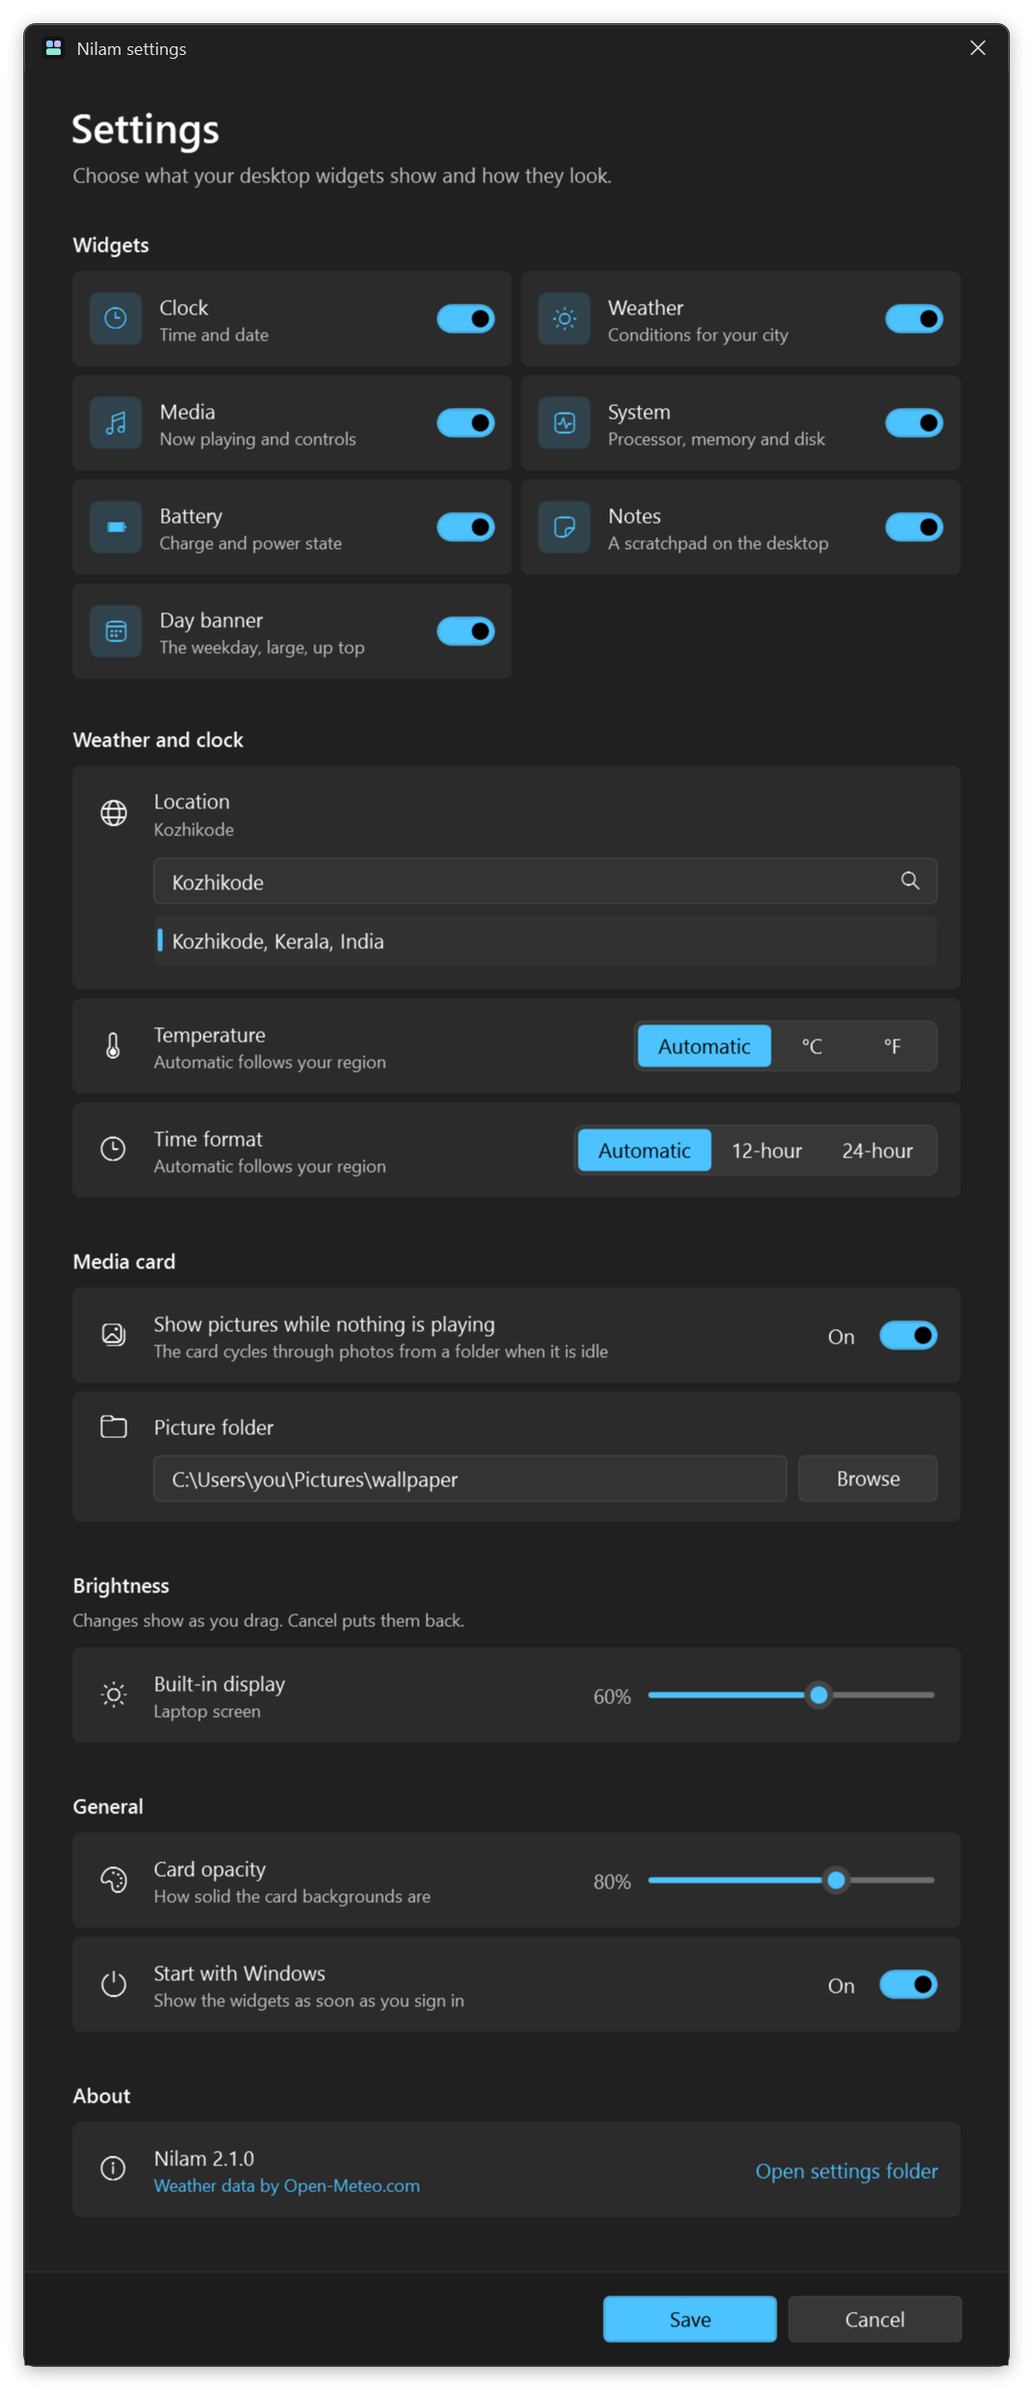
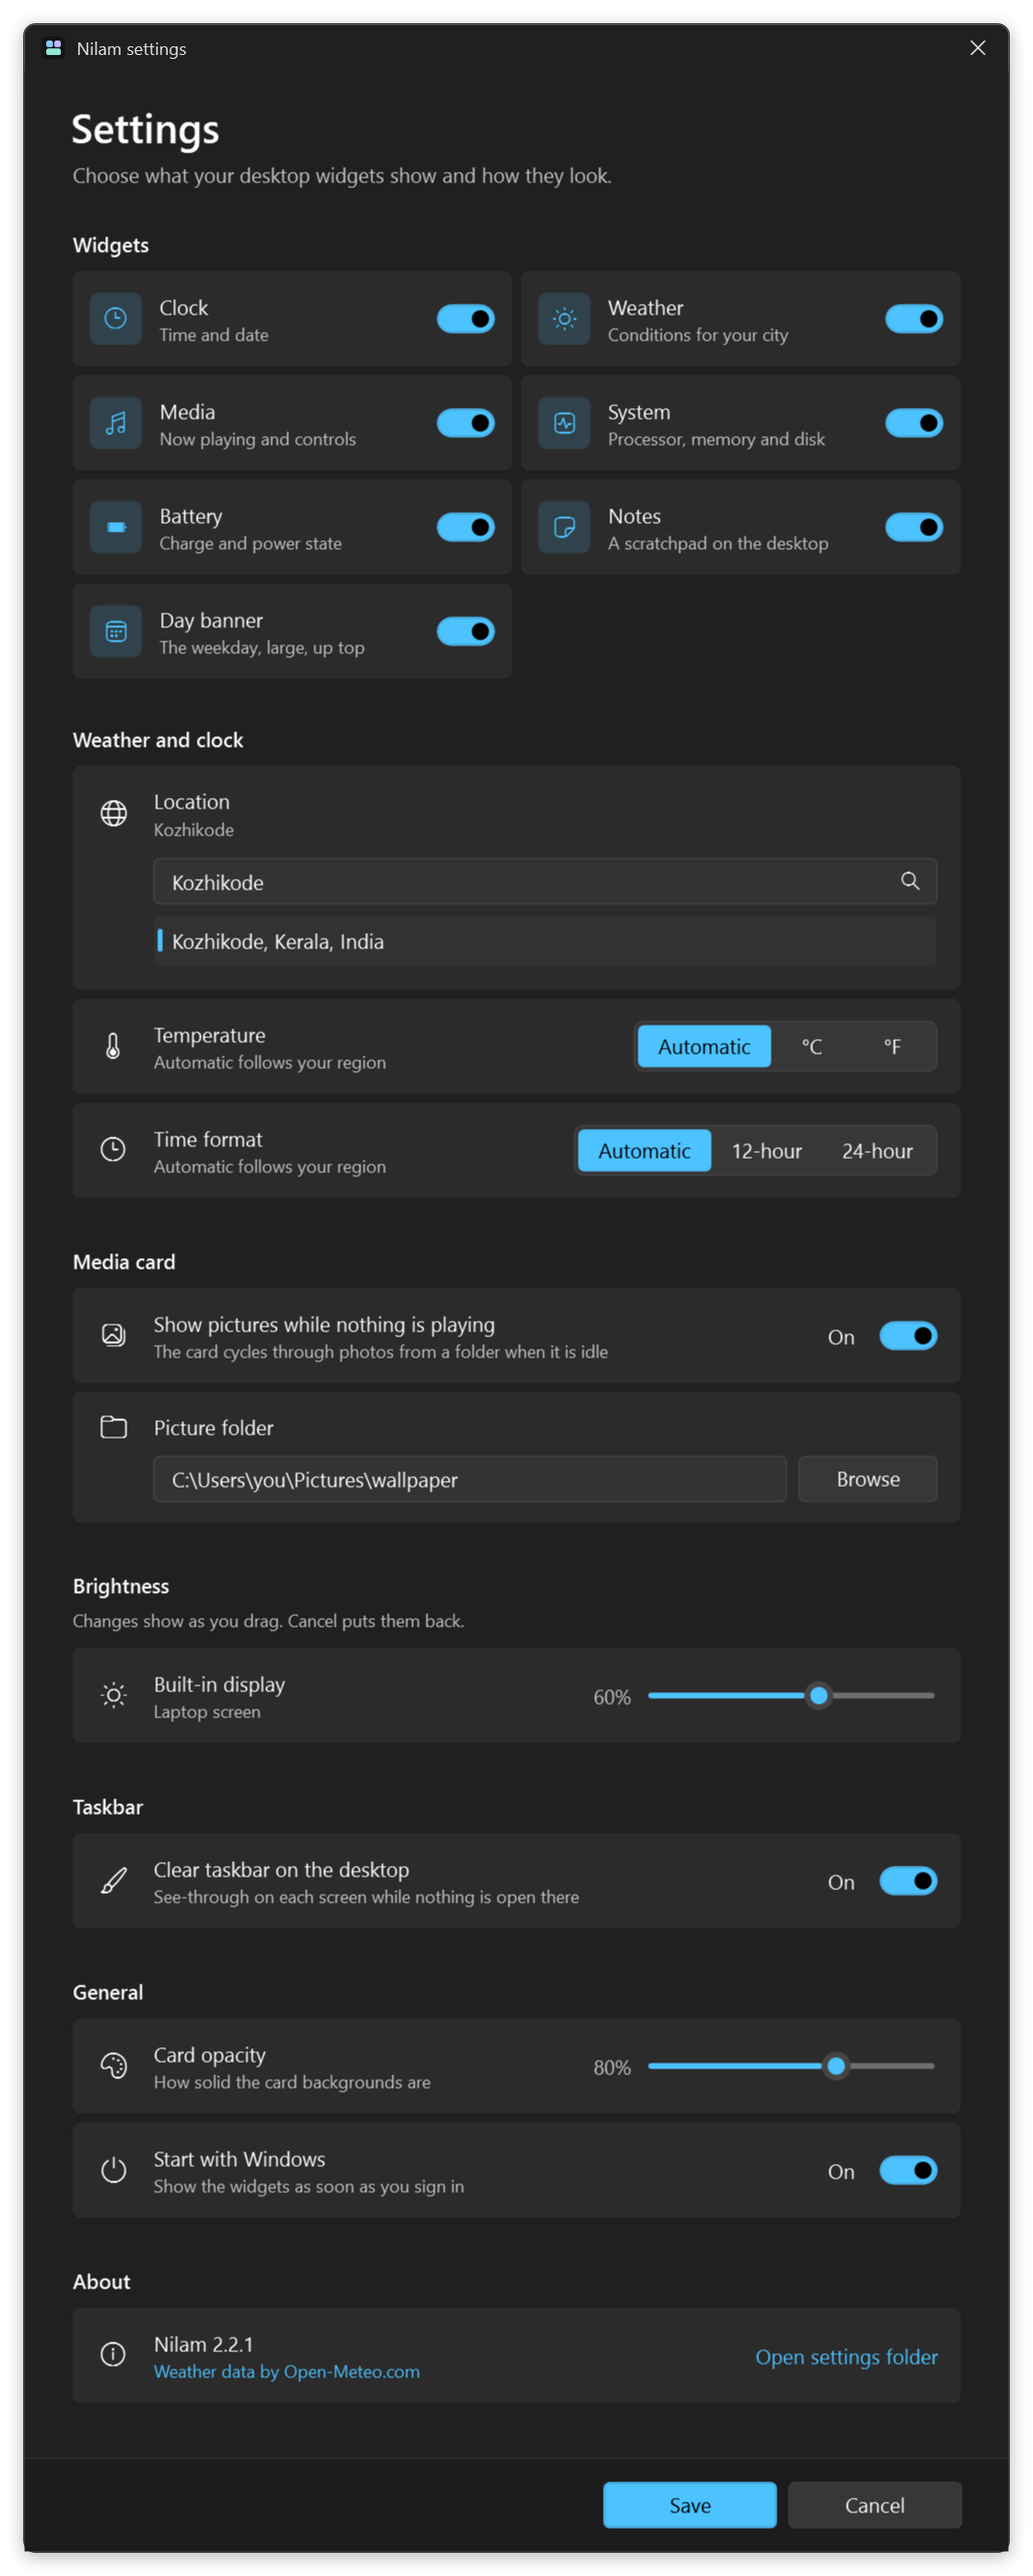
Save only dragged card positions, fix the taskbar settings line, release 2.2.1
Every card's default spot was saved the first time it was shown, so cards
set up on a laptop stayed at the laptop's layout on a bigger monitor - in
the middle of the screen, with the banner off centre. Now only a spot the
user drags a card to is saved (LayoutPlanner.Place, with tests), cards
never moved follow each screen's own default, and Reset positions forgets
saved spots instead of saving the defaults.

From an audit of today's changes:
- The clear taskbar's description in Settings was cut off at the window's
  normal width, and the reason shown when it is unavailable could not
  wrap. The row now wraps, and the text is shorter.
- After a display change the clear taskbar re-sends every taskbar's
  state, so one Windows rebuilt behind the same window does not stay solid.
- The README lost the 2.2.0 guidance to quit other taskbar tools and sign
  out, and where the helper's log is; both are back. The settings picture
  is regenerated (2.2.1, with the Taskbar switch), and PRIVACY.md and the
  installer's summary mention nilam uninstall.

diff --git a/src/WidgetApp.cs b/src/WidgetApp.cs
@@ -298,13 +298,34 @@ namespace Nilam
             }
             Replan();
             List<Rect> areas = WorkAreas();
+            bool changed = false;
             foreach (Card card in cards)
             {
                 Window w = card.Window;
-                Rect now = new Rect(w.Left, w.Top, card.Home.Width, card.Home.Height);
-                Rect fit = LayoutPlanner.Fit(now, card.Home, areas);
-                if (fit.Left != w.Left) w.Left = fit.Left;
-                if (fit.Top != w.Top) w.Top = fit.Top;
+                // A card the user dragged is checked where it is now - Windows
+                // moves windows off a monitor that goes away. One never dragged
+                // moves to the new screen's default; see LayoutPlanner.Place.
+                bool dragged = Store.Layout.ContainsKey(card.Name);
+                Rect fit = LayoutPlanner.Place(dragged ? new Point2(w.Left, w.Top) : (Point2?)null, card.Home, areas);
+                if (fit.Left == w.Left && fit.Top == w.Top) continue;
+                w.Left = fit.Left;
+                w.Top = fit.Top;
+                if (dragged)
+                {
+                    Store.Layout[card.Name] = new Point2(fit.Left, fit.Top);
+                    changed = true;
+                }
+            }
+            if (changed) SaveLayoutSoon();
+
+            // If a display change rebuilds a taskbar's insides while its window
+            // stays the same, the rebuilt one starts out solid - and the clear
+            // taskbar, which only sends what has changed, would not notice.
+            // Sending every state again covers that.
+            if (Taskbar != null)
+            {
+                try { Taskbar.Refresh(); }
+                catch (Exception ex) { Log.Error("taskbar", ex); }
             }
         }
 
@@ -408,8 +429,11 @@ namespace Nilam
             {
                 card.Window.Left = card.Home.Left;
                 card.Window.Top = card.Home.Top;
-                Store.Layout[card.Name] = new Point2(card.Home.Left, card.Home.Top);
             }
+            // Every saved spot is forgotten - hidden cards' too - rather than
+            // the defaults being saved, so the cards go on following each
+            // screen's default; see LayoutPlanner.Place.
+            Store.Layout.Clear();
             layoutSave.Stop();
             Store.SaveLayout();
         }

diff --git a/src/Card.cs b/src/Card.cs
@@ -84,16 +84,14 @@ namespace Nilam
             w.Tag = Name;
             Window = w;
 
-            Rect spot = home;
+            // Only a spot the user dragged the card to is saved, and only that
+            // is kept up to date here; see LayoutPlanner.Place.
             Point2 saved;
-            if (App.Store.Layout.TryGetValue(Name, out saved))
-            {
-                spot = new Rect(saved.Left, saved.Top, home.Width, home.Height);
-            }
-            spot = LayoutPlanner.Fit(spot, home, workAreas);
+            bool dragged = App.Store.Layout.TryGetValue(Name, out saved);
+            Rect spot = LayoutPlanner.Place(dragged ? saved : (Point2?)null, home, workAreas);
             w.Left = spot.Left;
             w.Top = spot.Top;
-            App.Store.Layout[Name] = new Point2(w.Left, w.Top);
+            if (dragged) App.Store.Layout[Name] = new Point2(w.Left, w.Top);
 
             bool takesFocus = TakesFocus;
             w.SourceInitialized += delegate(object s, EventArgs e)
@@ -113,7 +111,6 @@ namespace Nilam
             };
 
             w.MouseLeftButtonDown += OnMouseDown;
-            w.LocationChanged += OnMoved;
             w.ContextMenu = new ContextMenu();
             w.ContextMenuOpening += OnMenuOpening;
 
@@ -157,14 +154,14 @@ namespace Nilam
                 }
             }
             App.Desktop.Place(w);
-            if (w.Left == left && w.Top == top) OnClicked();
-        }
-
-        private void OnMoved(object sender, EventArgs e)
-        {
-            App.Store.Layout[Name] = new Point2(Window.Left, Window.Top);
-            // LocationChanged fires for every pixel of a drag. The file is
-            // written once the card has been still for a moment.
+            if (w.Left == left && w.Top == top)
+            {
+                OnClicked();
+                return;
+            }
+            // Saved only here, at the end of a drag, never when the app moves
+            // a card itself - see Build.
+            App.Store.Layout[Name] = new Point2(w.Left, w.Top);
             App.SaveLayoutSoon();
         }
 

diff --git a/tests/Tests.cs b/tests/Tests.cs
@@ -370,6 +370,30 @@ namespace Nilam.Tests
             Rect home = new Rect(904, 32, 160, 160);
             Check.Equal(home, LayoutPlanner.Fit(new Rect(10, 10, 160, 160), home, new List<Rect>()), "home");
         }
+
+        private static void ACardNobodyMovedFollowsTheScreen()
+        {
+            // The bug: the laptop's defaults were saved the first time the cards
+            // were shown, so on a 24-inch monitor at 100% the cards stayed at
+            // x=904 - the middle of the screen - and the banner off centre.
+            List<Rect> laptop = new List<Rect> { new Rect(0, 0, 1280, 752) };
+            List<Rect> monitor = new List<Rect> { new Rect(0, 0, 1920, 1032) };
+            LayoutPlan onLaptop = LayoutPlanner.Plan(laptop[0], All);
+            LayoutPlan onMonitor = LayoutPlanner.Plan(monitor[0], All);
+            Check.Equal(new Rect(904, 32, 160, 160), LayoutPlanner.Place(null, onLaptop.Cards["Clock"], laptop), "the laptop's default");
+            Check.Equal(new Rect(1544, 176, 160, 160), LayoutPlanner.Place(null, onMonitor.Cards["Clock"], monitor),
+                        "the monitor's own default, at its right edge");
+            Check.Equal(new Rect(576, 32, 760, 92), LayoutPlanner.Place(null, onMonitor.Cards[LayoutPlanner.Banner], monitor),
+                        "the banner centred on the monitor");
+        }
+
+        private static void ACardTheUserDraggedStaysWhereItWasPut()
+        {
+            List<Rect> monitor = new List<Rect> { new Rect(0, 0, 1920, 1032) };
+            Rect home = LayoutPlanner.Plan(monitor[0], All).Cards["Clock"];
+            Check.Equal(new Rect(200, 120, 160, 160), LayoutPlanner.Place(new Point2(200, 120), home, monitor), "where it was dragged");
+            Check.Equal(home, LayoutPlanner.Place(new Point2(5000, 120), home, monitor), "home again once it is off every screen");
+        }
     }
 
     internal static class PlaybackClockTests

diff --git a/src/SettingsWindow.cs b/src/SettingsWindow.cs
@@ -845,16 +845,19 @@ namespace Nilam
 
         <!-- ============================================================ taskbar -->
         <TextBlock Text=""Taskbar"" Style=""{StaticResource Section}""/>
+        <!-- A DockPanel rather than a horizontal StackPanel, which would give
+             the note unlimited width: it is replaced by a longer reason when
+             the switch is unavailable, and must wrap rather than be cut off. -->
         <CheckBox x:Name=""ClearTaskbar"" Style=""{StaticResource Switch}""
                   AutomationProperties.Name=""Clear taskbar on the desktop"">
-          <StackPanel Orientation=""Horizontal"">
+          <DockPanel>
             <TextBlock Style=""{StaticResource RowGlyph}"" Text=""&#xE771;""/>
             <StackPanel VerticalAlignment=""Center"">
               <TextBlock Text=""Clear taskbar on the desktop"" Style=""{StaticResource RowTitle}""/>
               <TextBlock x:Name=""ClearTaskbarNote"" Style=""{StaticResource RowDesc}""
-                         Text=""See-through while nothing is open, back to normal when a window, Start or Search opens""/>
+                         Text=""See-through on each screen while nothing is open there""/>
             </StackPanel>
-          </StackPanel>
+          </DockPanel>
         </CheckBox>
 
         <!-- ============================================================ general -->

diff --git a/src/LayoutPlanner.cs b/src/LayoutPlanner.cs
@@ -189,6 +189,25 @@ namespace Nilam
             return workAreas.Count > 0 ? Inside(home, workAreas[0]) : home;
         }
 
+        /// <summary>
+        /// Where a card goes when the cards are built or the screens change.
+        ///
+        /// Only a spot the user dragged a card to is ever saved, and that spot
+        /// is kept, via Fit. A card with no saved spot takes its default for
+        /// the screen as it is now, so the same cards sit at the right edge of
+        /// a laptop and of a bigger monitor alike. Up to 2.2.0 the defaults
+        /// were saved too, the moment a card was first shown, which pinned
+        /// every card to wherever the first screen's layout had put it - the
+        /// middle of a larger monitor, for one.
+        /// </summary>
+        internal static Rect Place(Point2? dragged, Rect home, IList<Rect> workAreas)
+        {
+            Rect spot = dragged.HasValue
+                ? new Rect(dragged.Value.Left, dragged.Value.Top, home.Width, home.Height)
+                : home;
+            return Fit(spot, home, workAreas);
+        }
+
         private static Rect Inside(Rect r, Rect wa)
         {
             double x = Math.Max(wa.Left, Math.Min(r.Left, wa.Right - r.Width));

diff --git a/src/TaskbarStyle.cs b/src/TaskbarStyle.cs
@@ -191,6 +191,16 @@ namespace Nilam
             SetEnabled(false);
         }
 
+        /// <summary>
+        /// Sends every taskbar its state again, even where nothing seems to have
+        /// changed. The agent ignores a state a taskbar already has, so this
+        /// costs nothing when all is well.
+        /// </summary>
+        internal void Refresh()
+        {
+            if (enabled) Evaluate(true);
+        }
+
         // ------------------------------------------------------------- events
         private void OnWinEvent(IntPtr hook, uint eventId, IntPtr hwnd, int idObject, int idChild, uint thread, uint time)
         {

diff --git a/README.md b/README.md
@@ -68,14 +68,16 @@ No background services, no telemetry, no admin rights.
   <img src="docs/images/layout-light.svg" width="100%" alt="Default card layout: one block of four rows on a tall 1920x1200 screen, two blocks below the banner on a short 1920x1080 screen.">
 </picture>
 
+Cards you haven't moved follow each screen's own layout, so they sit at the right edge of a laptop and of a big monitor alike. A card you drag stays where you put it, and **Reset positions** sends it back.
+
 ## Usage
 
 Right-click any card, or the Nilam tray icon, to open **Settings**, lock or reset positions, or exit.
 
 <details>
-<summary><b>Settings window</b>: widgets, weather, clock, media pictures, brightness, opacity, startup</summary>
+<summary><b>Settings window</b>: widgets, weather, clock, media pictures, brightness, clear taskbar, opacity, startup</summary>
 <br>
-<p align="center"><img src="docs/images/settings.png" width="420" alt="The Nilam settings window in dark theme, with toggles for each widget, weather location, temperature and time format, media card pictures, display brightness, card opacity and start with Windows."></p>
+<p align="center"><img src="docs/images/settings.png" width="420" alt="The Nilam settings window in dark theme, with toggles for each widget, weather location, temperature and time format, media card pictures, display brightness, the clear taskbar, card opacity and start with Windows."></p>
 </details>
 
 <details>
@@ -84,7 +86,9 @@ Right-click any card, or the Nilam tray icon, to open **Settings**, lock or rese
 
 The taskbar on each monitor turns fully transparent while nothing is open there, and returns as soon as a window, Start, Search or Task View opens. Windows 11 on Intel or AMD only.
 
-It runs a small helper inside Explorer, is **off by default**, always restores the taskbar when turned off or when Nilam exits, and starts about 45 seconds after sign-in. It can't run alongside tools like TranslucentTB.
+It runs a small helper inside Explorer, is **off by default**, always restores the taskbar when turned off or when Nilam exits, and starts about 45 seconds after sign-in. The helper stays in Explorer, idle, until you sign out.
+
+Only one taskbar tool can work this way at a time: quit TranslucentTB, Windhawk's taskbar styling and the like, then sign out and back in before turning it on. If the taskbar stays solid, `%TEMP%\Nilam\taskbar-agent.log` says why.
 </details>
 
 ## Commands

diff --git a/CHANGELOG.md b/CHANGELOG.md
@@ -5,6 +5,31 @@ published under the name Desktop Widgets. The format follows
 [Keep a Changelog](https://keepachangelog.com/en/1.1.0/) and the project uses
 [Semantic Versioning](https://semver.org/).
 
+## [2.2.1] - 2026-11-10
+
+### Fixed
+
+- **Cards follow the screen they are on.** Only a card you drag is remembered
+  where you put it; the others take the default layout of the screen as it is
+  now. Until now every card's default spot was saved the first time it was
+  shown, so cards first shown on a laptop sat in the middle of a larger monitor,
+  with the banner off centre. **If your cards are stuck like that, right-click
+  any card and choose Reset positions once** - from then on they follow each
+  screen.
+- **Reset positions** forgets the saved spots instead of saving the current
+  screen's defaults, so the cards go on following the screen afterwards.
+- After a display change, the clear taskbar sends every taskbar its state again
+  rather than only what changed, so a taskbar Windows has rebuilt does not stay
+  solid.
+- The clear taskbar's line in Settings is no longer cut off at the window's
+  normal width, and the reason shown when it is unavailable wraps instead.
+
+### Changed
+
+- The README again says that only one taskbar tool can work at a time and where
+  the clear taskbar's log is, and its settings picture shows the Taskbar switch.
+- The installer's closing summary mentions `nilam uninstall`.
+
 ## [2.2.0] - 2026-11-10
 
 ### Added

diff --git a/docs/ARCHITECTURE.md b/docs/ARCHITECTURE.md
@@ -165,6 +165,13 @@ covered by tests rather than by borrowing laptops.
 - On a shorter one - 1080p at 150% scaling leaves 672 units and the block needs
   688 - the rows are split evenly across blocks placed side by side below the
   banner, instead of overlapping.
+- Only a position the user dragged a card to is saved (`LayoutPlanner.Place`).
+  A card that was never moved has no saved position and takes the default for
+  the screen as it is now, so the same cards sit at the right edge of a laptop
+  and of a larger monitor alike. Up to 2.2.0 the defaults were saved too, the
+  moment a card was first shown, which pinned the cards to the first screen's
+  layout; **Reset positions** now forgets saved positions rather than saving
+  the defaults.
 - A saved position is kept if at least half the card is still on *any* monitor's
   work area. Otherwise the card returns to its default spot. This is re-checked
   whenever the display configuration or the work area changes, not only at
@@ -342,7 +349,7 @@ installs the files only if they match.
 
 ## State
 
-Everything lives in `%APPDATA%\Nilam` (see the README for the files).
+Everything lives in `%APPDATA%\Nilam` (see [PRIVACY.md](../PRIVACY.md) for the files).
 Releases before 2.0 - when the project was called Desktop Widgets - used
 `%LOCALAPPDATA%\KiroDesktopWidgets`; on first run `Store` copies layout, notes and
 the weather location across and leaves a note in the old folder. The program

diff --git a/PRIVACY.md b/PRIVACY.md
@@ -42,12 +42,12 @@ Everything is in `%APPDATA%\Nilam`, as plain files you can open:
 | File | Contents |
 |---|---|
 | `settings.json` | your settings, including the chosen city and its coordinates |
-| `layout.json` | where each card is |
+| `layout.json` | where you have dragged cards to, and whether positions are locked |
 | `notes.txt` | the text of the notes card, unencrypted |
 | `widgets.log` | start and stop times, and errors; no personal content |
 
 Uninstalling leaves this folder in place so a reinstall restores your layout.
-Run `uninstall.ps1 -Purge` to delete it too.
+Run `nilam uninstall --purge`, or `uninstall.ps1 -Purge`, to delete it too.
 
 With the clear taskbar on, `%TEMP%\Nilam` also holds the copy of its helper that
 Explorer loads, and `taskbar-agent.log`: when the helper started and which
